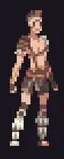
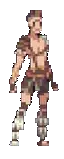
Remove fundo preto do sprite do jogador e anima os braços

diff --git a/castelo.html b/castelo.html
@@ -239,9 +239,17 @@ function montarFatiasJog(){
     c.getContext('2d').drawImage(imgJogador, sx, sy, sw, sh, 0, 0, sw, sh);
     return c;
   };
+  const ombro = Math.round(ih*.33);                    // linha dos ombros na foto
+  const larE = Math.round(iw*.41), x0D = Math.round(iw*.69);
+  const tronco = cv(0, 0, iw, corte + 2);              // 2px de sobra cobre a emenda
+  const tcx = tronco.getContext('2d');
+  tcx.clearRect(0, ombro, larE, tronco.height - ombro);
+  tcx.clearRect(x0D, ombro, iw - x0D, tronco.height - ombro);
   fatiasJog = {
-    corte,
-    tronco: cv(0, 0, iw, corte + 2),                   // 2px de sobra cobre a emenda
+    corte, ombro, x0D,
+    tronco,
+    bracoE: cv(0, ombro, larE, corte - ombro),
+    bracoD: cv(x0D, ombro, iw - x0D, corte - ombro),
     pernaE: cv(0, corte, Math.ceil(iw/2), ih - corte),
     pernaD: cv(Math.floor(iw/2), corte, iw - Math.floor(iw/2), ih - corte)
   };
@@ -1734,6 +1742,19 @@ function desenharJogador(ox, oy){
     };
     perna(f.pernaE, px - sW/2, abre);
     perna(f.pernaD, px - sW/2 + f.pernaE.width*esc, -abre);
+    // braços: fases opostas às pernas do mesmo lado; o da frente sobe no golpe
+    const ombroY = base - (ih - f.ombro)*esc;
+    const braco = (c, x0, pivX, a) => {
+      const bw = c.width*esc, bh = c.height*esc;
+      ctx.save();
+      ctx.translate(px - sW/2 + pivX*esc, ombroY);
+      ctx.rotate(a);
+      ctx.drawImage(c, (x0 - pivX)*esc, -bh*.06, bw, bh*1.06);
+      ctx.restore();
+    };
+    const golpeBr = jog.golpe > 0 ? (jog.golpe/.2)*.9 : 0;
+    braco(f.bracoE, 0, f.bracoE.width*.7, -abre*.8);
+    braco(f.bracoD, f.x0D, f.x0D + f.bracoD.width*.3, abre*.8 + golpeBr);
     // tronco: respira parado, inclina ao andar, no dash e no golpe
     const respira = (1-mov)*Math.sin(tempo*2.2)*.02;
     const incl = mov*.09 + (jog.dash > 0 ? .30 : 0)
